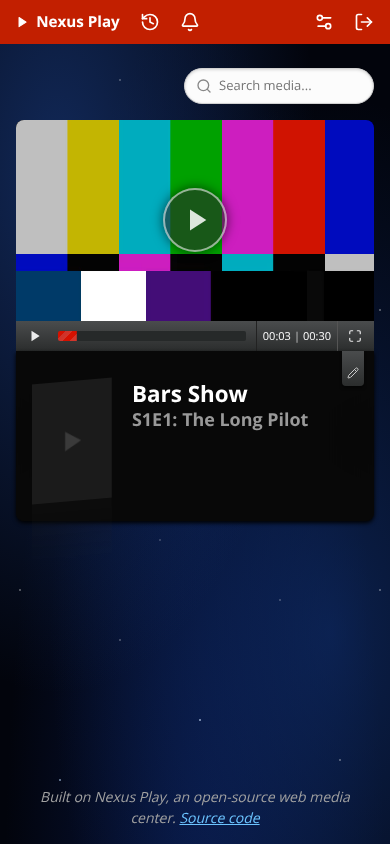
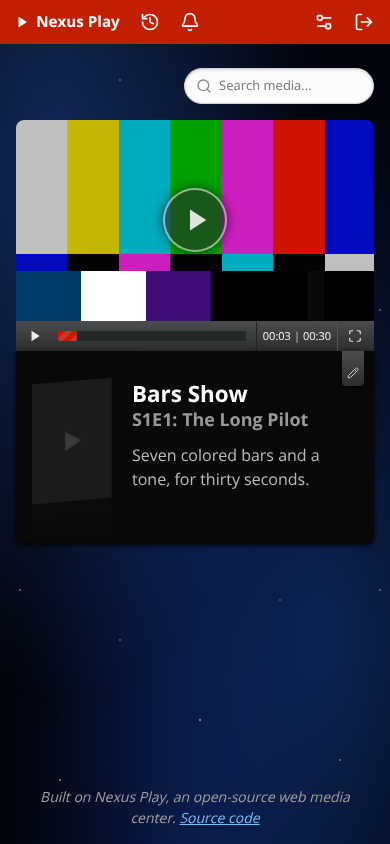
Player: space between the episode title and the synopsis
Test: the phone playback test's episode now has a synopsis; the test
checks there is space above it (there was none) and the screenshots show it.

Changed region(s): [[0.3385, 0.5237, 0.8308, 0.5853], [0.0308, 0.6161, 0.9846, 0.6469]]

diff --git a/internal/web/static/css/app.css b/internal/web/static/css/app.css
@@ -569,7 +569,7 @@ button { font: inherit; }
 .meta-text h1 { margin: 0; font-size: clamp(1.4rem, 4vw, 2.2rem); line-height: 1.15; font-weight: 700; }
 .episode-title { display: block; color: #999; font-size: .8em; margin-top: 2px; }
 .meta-sub { margin: 10px 0 8px; font-weight: 700; font-size: 1.1rem; color: #fff; }
-.meta-text .overview { color: #bbb; }
+.meta-text .overview { color: #bbb; margin-top: 14px; }
 
 /* Subtitle report */
 /* Subtitle report: rows about 450 px wide, each a dark strip with the line

diff --git a/integration/playback_test.go b/integration/playback_test.go
@@ -3,6 +3,7 @@
 package integration
 
 import (
+	"context"
 	"fmt"
 	"os"
 	"os/exec"
@@ -10,6 +11,8 @@ import (
 	"strings"
 	"testing"
 	"time"
+
+	"github.com/AlexCristian/NexusPlay/internal/store"
 )
 
 // Screenshots of video actually playing, with the frames visible: still
@@ -39,6 +42,16 @@ func TestPlaybackScreens(t *testing.T) {
 	s.waitForMedia(2)
 	s.publishAll()
 	s.register("alex")
+	// A synopsis under the episode's title, as TMDB provides.
+	ctx := context.Background()
+	ep, err := s.App.Store.MediaByID(ctx, s.mediaID(barsEpisode))
+	if err != nil {
+		t.Fatal(err)
+	}
+	if err := s.App.Store.UpdateMedia(ctx, ep.ID, store.MediaUpdate{Title: ep.Title, CollectionID: ep.CollectionID,
+		Season: ep.Season, Episode: ep.Episode, Overview: "Seven colored bars and a tone, for thirty seconds."}, true); err != nil {
+		t.Fatal(err)
+	}
 	b := newBrowser(t)
 
 	// Plays the video from the start and waits until it is past at.
@@ -112,6 +125,12 @@ func TestPlaybackScreens(t *testing.T) {
 		}
 		if got := tb.text("#ctl-duration"); got != "00:30" {
 			t.Errorf("length shown while converting = %s, want the whole 00:30", got)
+		}
+		var gap float64
+		tb.eval(`document.querySelector('.meta-text .overview').getBoundingClientRect().top -
+			document.querySelector('.meta-text h1').getBoundingClientRect().bottom`, &gap)
+		if gap < 10 {
+			t.Errorf("synopsis starts %.0fpx under the episode title, want some space", gap)
 		}
 		compareScreenshot(t, "playback-converting-phone-playing", tb.screenshotWith(playingStabilize))
 		pauseAt(tb, 3)
